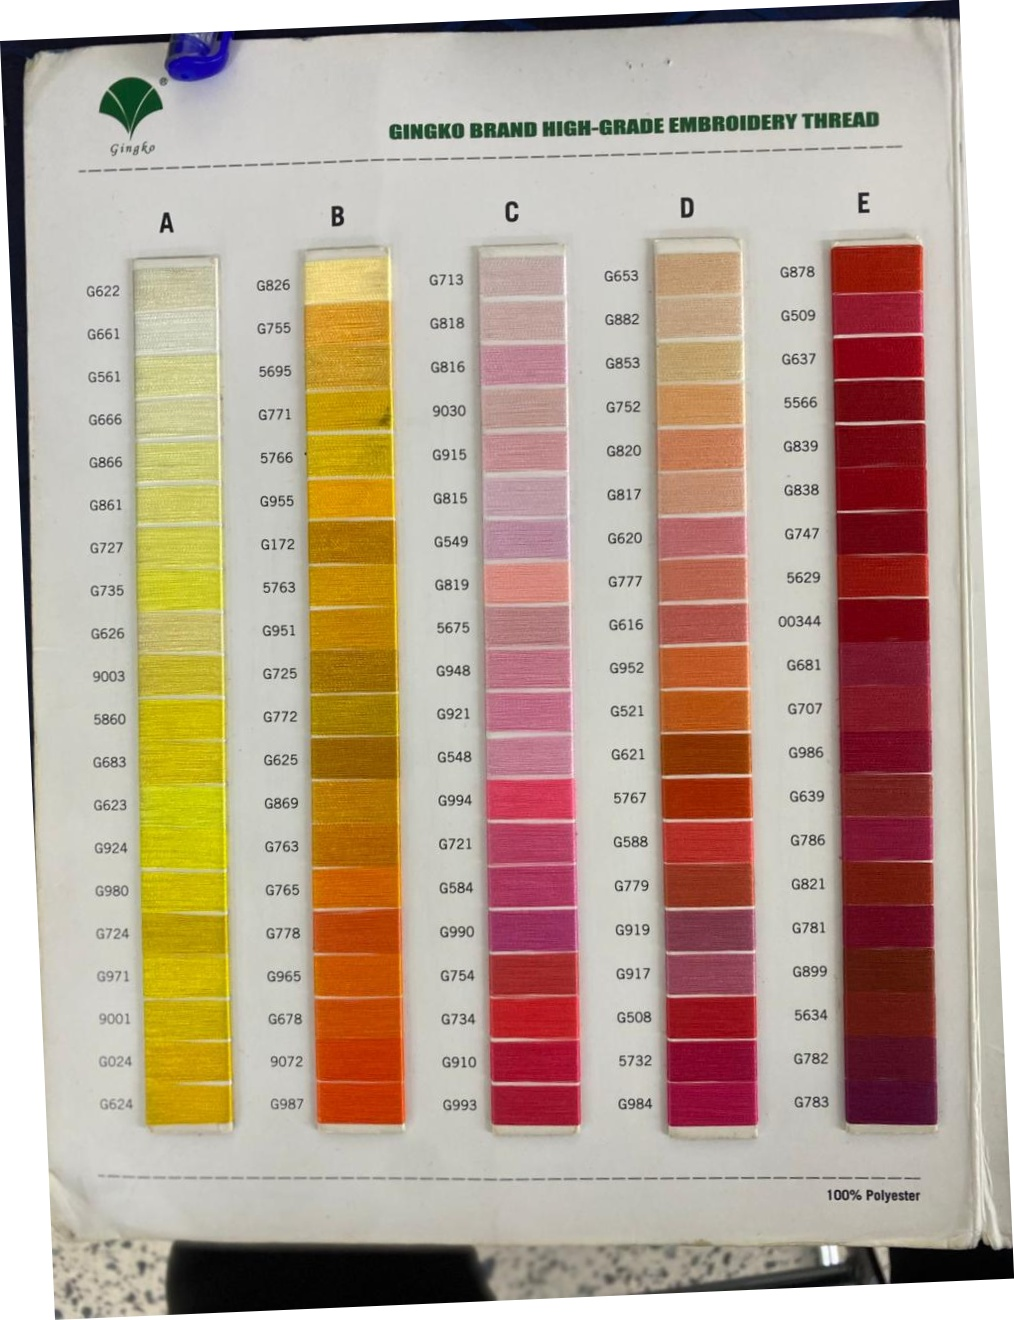
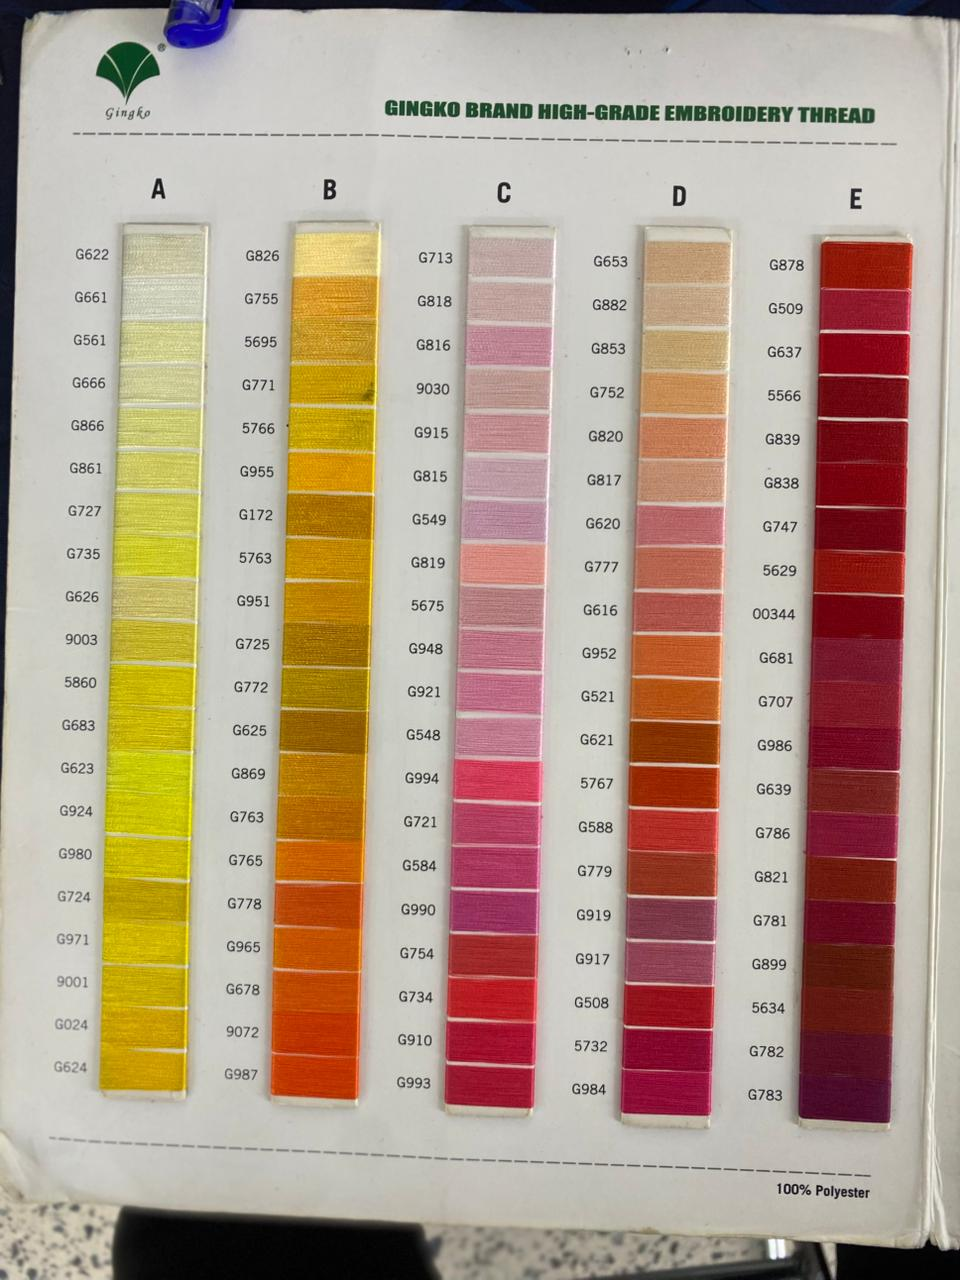
Straighten the thread chart image for better visual appearance
Adjusted image rendering and coordinate calculations to correct the visual tilt of the thread chart image by applying a CSS rotation, improving user experience and search accuracy.

Replit-Commit-Author: Agent
Replit-Commit-Session-Id: 8a211661-5586-44ff-bc3a-dd7c880ed23b
Replit-Commit-Checkpoint-Type: full_checkpoint
Replit-Commit-Event-Id: 74e28255-544e-481b-8426-5f5f548cc4cc
Replit-Commit-Screenshot-Url: https://storage.googleapis.com/screenshot-production-us-central1/adad4db2-4816-4309-b473-cd1a24e9eef3/8a211661-5586-44ff-bc3a-dd7c880ed23b/ezTrAO4
Replit-Helium-Checkpoint-Created: true

diff --git a/artifacts/thread-color/src/pages/home.tsx b/artifacts/thread-color/src/pages/home.tsx
@@ -3,43 +3,45 @@ import { useState, useRef, useEffect } from "react";
 const IMAGE_WIDTH = 960;
 const IMAGE_HEIGHT = 1280;
 
-const TOP_MARGIN = 115;
-const SWATCH_HEIGHT = 1050;
-const NUM_ROWS = 20;
-const ROW_HEIGHT = SWATCH_HEIGHT / NUM_ROWS;
+// Measured from actual images: first thread swatch center y, row spacing
+const CHART_CONFIG = {
+  ae: { topY: 252, rowH: 50 },
+  pt: { topY: 215, rowH: 52 },
+};
 
-function rowY(i: number) {
-  return (TOP_MARGIN + (i + 0.5) * ROW_HEIGHT) / IMAGE_HEIGHT;
+function rowYPct(chartId: "ae" | "pt", i: number): number {
+  const { topY, rowH } = CHART_CONFIG[chartId];
+  return (topY + (i + 0.5) * rowH) / IMAGE_HEIGHT;
 }
 
 const CHARTS = [
   {
-    id: "ae",
+    id: "ae" as const,
     file: "/thread-chart-ae.jpg",
-    label: "Bảng A–E",
+    label: "Bảng A – E",
     columns: [
-      { name: "A", xPct: 0.073, codes: ["G622","G661","G561","G666","G866","G861","G727","G735","G626","9003","5860","G683","G623","G924","G980","G724","G971","9001","G024","G624"] },
-      { name: "B", xPct: 0.248, codes: ["G826","G755","5695","G771","5766","G955","G172","5763","G951","G725","G772","G625","G869","G763","G765","G778","G965","G678","9072","G987"] },
-      { name: "C", xPct: 0.425, codes: ["G713","G818","G816","9030","G915","G815","G549","G819","5675","G948","G921","G548","G994","G721","G584","G990","G754","G734","G910","G993"] },
-      { name: "D", xPct: 0.602, codes: ["G653","G882","G853","G752","G820","G817","G620","G777","G616","G952","G521","G621","5767","G588","G779","G919","G917","G508","5732","G984"] },
-      { name: "E", xPct: 0.781, codes: ["G878","G509","G637","5566","G839","G838","G747","5629","O0344","G681","G707","G986","G639","G786","G821","G781","G899","5634","G782","G783"] },
+      { name: "A", xPct: 0.078, codes: ["G622","G661","G561","G666","G866","G861","G727","G735","G626","9003","5860","G683","G623","G924","G980","G724","G971","9001","G024","G624"] },
+      { name: "B", xPct: 0.255, codes: ["G826","G755","5695","G771","5766","G955","G172","5763","G951","G725","G772","G625","G869","G763","G765","G778","G965","G678","9072","G987"] },
+      { name: "C", xPct: 0.432, codes: ["G713","G818","G816","9030","G915","G815","G549","G819","5675","G948","G921","G548","G994","G721","G584","G990","G754","G734","G910","G993"] },
+      { name: "D", xPct: 0.609, codes: ["G653","G882","G853","G752","G820","G817","G620","G777","G616","G952","G521","G621","5767","G588","G779","G919","G917","G508","5732","G984"] },
+      { name: "E", xPct: 0.786, codes: ["G878","G509","G637","5566","G839","G838","G747","5629","O0344","G681","G707","G986","G639","G786","G821","G781","G899","5634","G782","G783"] },
     ],
   },
   {
-    id: "pt",
+    id: "pt" as const,
     file: "/thread-chart-pt.jpg",
-    label: "Bảng P–T",
+    label: "Bảng P – T",
     columns: [
-      { name: "P", xPct: 0.073, codes: ["G554","G723","G927","5776","G060","G938","G660","G573","G656","G926","9132","G527","G855","G884","G556","9086","G885","G729","G854","G736"] },
-      { name: "Q", xPct: 0.248, codes: ["G526","G670","G870","G673","G538","G792","G791","G672","G726","G753","G773","G856","G898","G657","G973","G857","5788","G942","G658","G858"] },
-      { name: "R", xPct: 0.425, codes: ["G686","G949","G822","G582","G682","G863","G738","G860","G535","G862","G728","G928","G730","G906","G758","G565","G958","G945","G654","5551"] },
-      { name: "S", xPct: 0.602, codes: ["G592","G563","G687","G610","G810","G886","G811","G505","G718","G812","G611","5783","G545","O0939","G761","G613","G612","G212","G918","G572"] },
+      { name: "P", xPct: 0.078, codes: ["G554","G723","G927","5776","G060","G938","G660","G573","G656","G926","9132","G527","G855","G884","G556","9086","G885","G729","G854","G736"] },
+      { name: "Q", xPct: 0.255, codes: ["G526","G670","G870","G673","G538","G792","G791","G672","G726","G753","G773","G856","G898","G657","G973","G857","5788","G942","G658","G858"] },
+      { name: "R", xPct: 0.432, codes: ["G686","G949","G822","G582","G682","G863","G738","G860","G535","G862","G728","G928","G730","G906","G758","G565","G958","G945","G654","5551"] },
+      { name: "S", xPct: 0.609, codes: ["G592","G563","G687","G610","G810","G886","G811","G505","G718","G812","G611","5783","G545","O0939","G761","G613","G612","G212","G918","G572"] },
       { name: "T", xPct: 0.781, codes: ["O0919","G575","G615","G502","G840","G614","G740","G618","G689","G539","G662","G936","G741","G664","G619","G640","G544","G841","G760","G540"] },
     ],
   },
 ];
 
-type Hit = { chartId: string; col: string; row: number; code: string };
+type Hit = { chartId: "ae" | "pt"; col: string; row: number; code: string };
 
 function findCode(query: string): Hit | null {
   const q = query.trim().toUpperCase();
@@ -53,42 +55,62 @@ function findCode(query: string): Hit | null {
   return null;
 }
 
+// Per-chart CSS rotation to visually straighten the photo
+const CHART_ROTATE_DEG: Record<string, number> = {
+  ae: 1.5,  // AE photo: right side slightly high, rotate clockwise
+  pt: 0.3,  // PT photo: near-straight
+};
+
 function ChartImage({ chart, hit }: { chart: typeof CHARTS[0]; hit: Hit | null }) {
-  const imgRef = useRef<HTMLImageElement>(null);
-  const [imgSize, setImgSize] = useState({ w: 0, h: 0 });
+  const containerRef = useRef<HTMLDivElement>(null);
+  const [size, setSize] = useState({ w: 0, h: 0 });
 
   useEffect(() => {
-    const img = imgRef.current;
-    if (!img) return;
-    const update = () => setImgSize({ w: img.offsetWidth, h: img.offsetHeight });
-    update();
+    const el = containerRef.current;
+    if (!el) return;
+    const update = () => {
+      const inner = el.querySelector(".chart-inner") as HTMLElement;
+      if (inner) setSize({ w: inner.offsetWidth, h: inner.offsetHeight });
+    };
     const ro = new ResizeObserver(update);
-    ro.observe(img);
+    ro.observe(el);
+    update();
     return () => ro.disconnect();
   }, []);
 
-  const activeCol = hit && hit.chartId === chart.id ? hit : null;
-
-  const scaleX = imgSize.w / IMAGE_WIDTH;
-  const scaleY = imgSize.h / IMAGE_HEIGHT;
+  const activeHit = hit?.chartId === chart.id ? hit : null;
+  const rotateDeg = CHART_ROTATE_DEG[chart.id] ?? 0;
 
   return (
-    <div className="relative w-full">
+    <div ref={containerRef} className="w-full overflow-hidden" style={{ position: "relative" }}>
+      <div
+        className="chart-inner relative"
+        style={{
+          transformOrigin: "center center",
+          transform: `rotate(${rotateDeg}deg)`,
+          width: "100%",
+        }}
+      >
       <img
-        ref={imgRef}
         src={chart.file}
         alt={chart.label}
         className="w-full block"
         style={{ userSelect: "none" }}
+        onLoad={() => {
+          const inner = containerRef.current?.querySelector(".chart-inner") as HTMLElement;
+          if (inner) setSize({ w: inner.offsetWidth, h: inner.offsetHeight });
+        }}
       />
 
-      {imgSize.w > 0 && chart.columns.map((col) =>
+      {size.w > 0 && chart.columns.map((col) =>
         col.codes.map((code, i) => {
-          const isHit = activeCol && activeCol.col === col.name && activeCol.row === i;
-          const cx = col.xPct * imgSize.w;
-          const cy = rowY(i) * imgSize.h;
-          const boxW = 70 * scaleX;
-          const boxH = ROW_HEIGHT * scaleY * 0.82;
+          const isHit = activeHit?.col === col.name && activeHit?.row === i;
+          const cx = col.xPct * size.w;
+          const cy = rowYPct(chart.id, i) * size.h;
+          const boxW = (65 / IMAGE_WIDTH) * size.w;
+          const boxH = (CHART_CONFIG[chart.id].rowH * 0.85 / IMAGE_HEIGHT) * size.h;
+
+          if (!isHit) return null;
 
           return (
             <div
@@ -99,37 +121,33 @@ function ChartImage({ chart, hit }: { chart: typeof CHARTS[0]; hit: Hit | null }
                 top: cy - boxH / 2,
                 width: boxW,
                 height: boxH,
-                display: "flex",
-                alignItems: "center",
-                justifyContent: "center",
-                borderRadius: 3,
-                backgroundColor: isHit ? "rgba(255,220,0,0.55)" : "transparent",
-                boxShadow: isHit ? "0 0 0 2px #f59e0b" : "none",
-                transition: "background-color 0.2s, box-shadow 0.2s",
+                borderRadius: 4,
+                backgroundColor: "rgba(255,220,0,0.5)",
+                boxShadow: "0 0 0 3px #f59e0b, 0 0 12px rgba(245,158,11,0.6)",
                 pointerEvents: "none",
               }}
             />
           );
         })
       )}
+      </div>
     </div>
   );
 }
 
 export default function Home() {
   const [query, setQuery] = useState("");
-  const chartRefs = useRef<Record<string, HTMLDivElement | null>>({});
-  const hitRef = useRef<HTMLDivElement | null>(null);
+  const hitChartRef = useRef<HTMLDivElement | null>(null);
 
   const hit = findCode(query);
 
   useEffect(() => {
     if (hit) {
       setTimeout(() => {
-        hitRef.current?.scrollIntoView({ behavior: "smooth", block: "center" });
-      }, 100);
+        hitChartRef.current?.scrollIntoView({ behavior: "smooth", block: "center" });
+      }, 150);
     }
-  }, [hit]);
+  }, [hit?.chartId, hit?.col, hit?.row]);
 
   return (
     <div className="min-h-screen bg-gray-100 flex flex-col">
@@ -142,13 +160,13 @@ export default function Home() {
             type="search"
             value={query}
             onChange={(e) => setQuery(e.target.value)}
-            placeholder="Nhập mã màu chỉ (vd: G622, 5860...)"
+            placeholder="Nhập mã màu (vd: G622, 5860...)"
             className="flex-1 px-3 py-2 text-sm border border-gray-300 rounded-lg outline-none focus:border-green-500 focus:ring-2 focus:ring-green-100 transition"
             autoFocus
           />
           {hit && (
-            <span className="text-sm font-semibold text-green-700 flex-shrink-0">
-              Cột {hit.col} #{hit.row + 1}
+            <span className="text-sm font-semibold text-green-700 flex-shrink-0 whitespace-nowrap">
+              Cột {hit.col} · Hàng {hit.row + 1}
             </span>
           )}
           {query && !hit && (
@@ -158,22 +176,27 @@ export default function Home() {
       </header>
 
       <main className="flex-1 max-w-2xl mx-auto w-full px-2 py-4 flex flex-col gap-6">
-        {CHARTS.map((chart) => (
-          <div
-            key={chart.id}
-            ref={(el) => { chartRefs.current[chart.id] = el; }}
-          >
-            <p className="text-xs font-semibold text-gray-500 uppercase tracking-widest mb-1 px-1">
-              {chart.label}
-            </p>
+        {CHARTS.map((chart) => {
+          const isHitChart = hit?.chartId === chart.id;
+          return (
             <div
-              ref={hit?.chartId === chart.id ? hitRef : undefined}
-              className="rounded-xl overflow-hidden shadow-md border border-gray-200"
+              key={chart.id}
+              ref={isHitChart ? hitChartRef : undefined}
             >
-              <ChartImage chart={chart} hit={hit} />
+              <p className="text-xs font-semibold text-gray-500 uppercase tracking-widest mb-1 px-1">
+                {chart.label}
+                {isHitChart && (
+                  <span className="ml-2 text-amber-600 normal-case tracking-normal font-bold">
+                    ↓ Đang hiển thị mã {hit!.code}
+                  </span>
+                )}
+              </p>
+              <div className="rounded-xl overflow-hidden shadow-md border border-gray-200">
+                <ChartImage chart={chart} hit={hit} />
+              </div>
             </div>
-          </div>
-        ))}
+          );
+        })}
       </main>
 
       <footer className="text-center text-xs text-gray-400 py-3">
